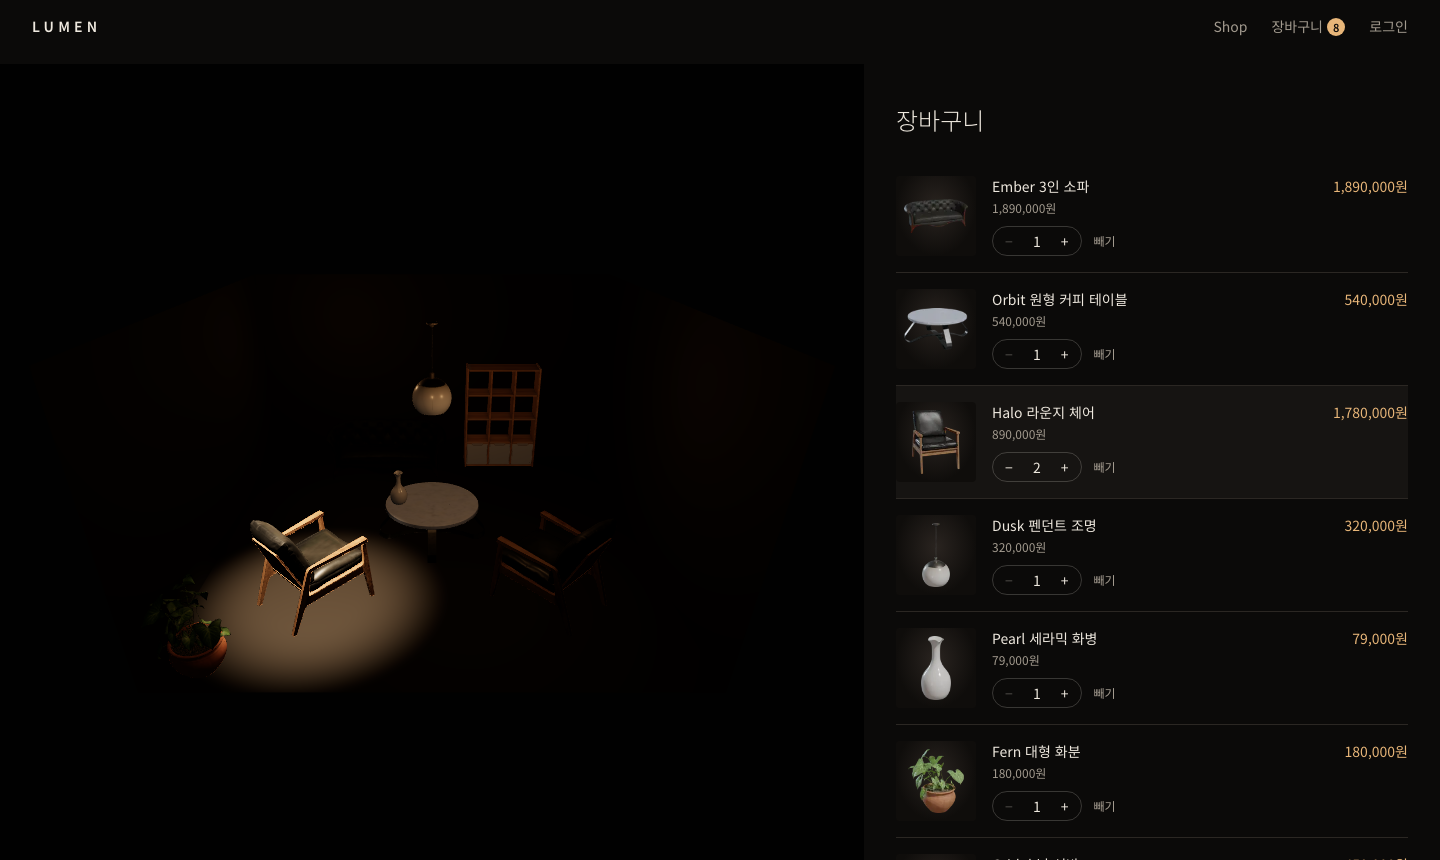
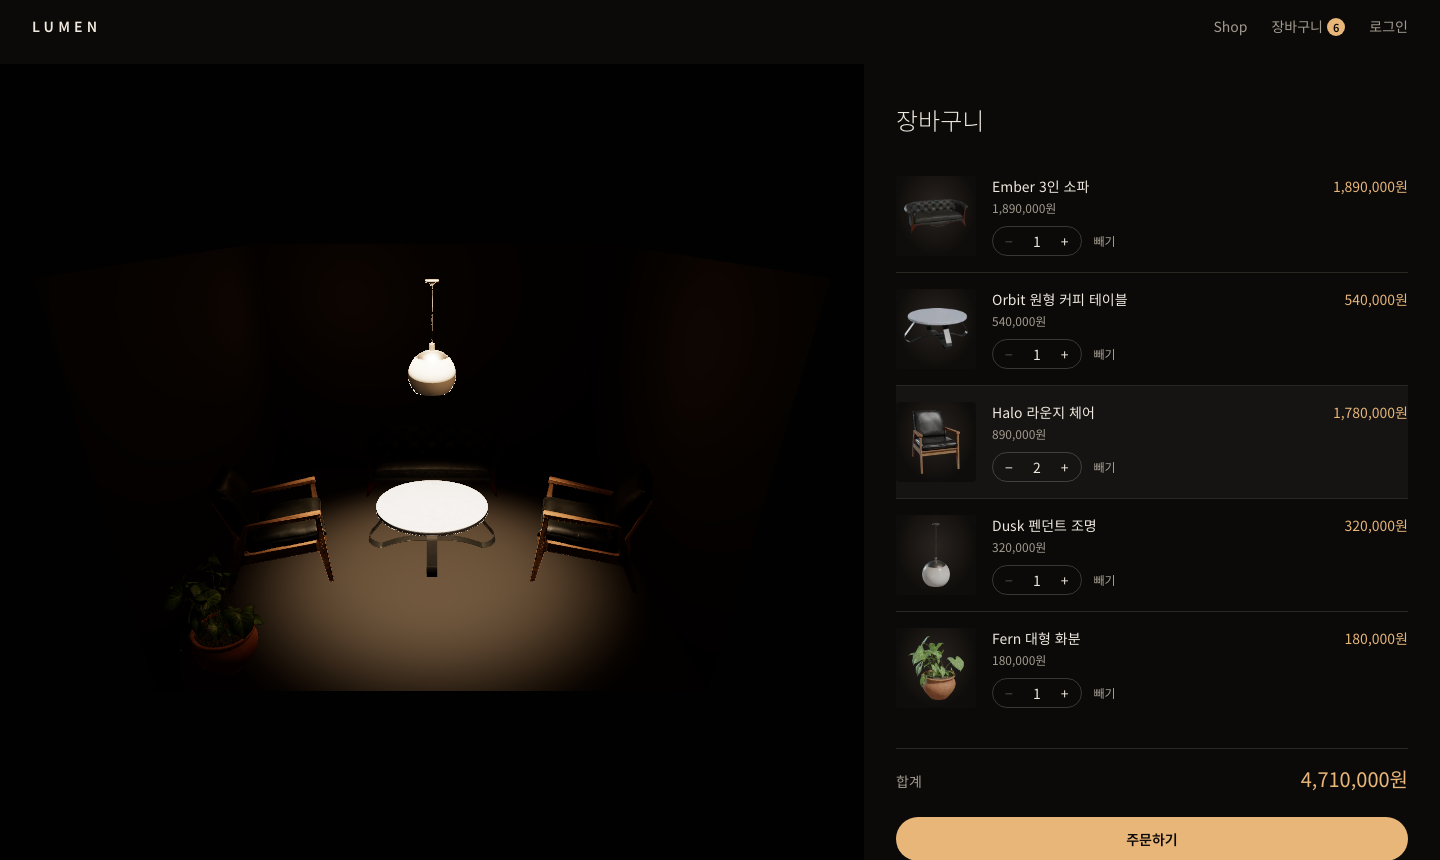
docs: 미뤄 둔 문제를 고친 뒤 README · 성능 기록 갱신
- 성능 기록: 상품 상세 LCP 5.1초를 "개선 후보" 라고 적어 둔 것을
  바로잡았다. 실제 그려지는 시점과 Lighthouse 버전별 측정을 나란히
  적고, 5.1초가 시뮬레이터 추정이었던 이유와 실제로 고친 것(three.js
  청크 요청 시점)을 남긴다.
- README: 실제로 잡은 문제에 "담기 한 번에 두 개" 와 "LCP 5.1초는
  추정치였다" 를 더하고, 고친 항목을 '아직 남은 것' 에서 뺐다. 남은
  한계(로그인 직후 합치기 응답이 끊기면 한 번 더 합쳐질 수 있음)는
  솔직하게 적어 둔다. 테스트 수 갱신(단위 82 · 통합 24 · e2e 52).
- 스크린샷: 의자 둘 모두에 조명이 떨어지는 장바구니, 의자가 테이블
  옆으로 간 결제 완료 장면으로 바꿨다.

Changed region(s): [[0.125, 0.393, 0.4375, 0.8163], [0.625, 0.8465, 1.0, 1.0], [0.625, 0.7256, 0.7812, 0.8163]]

diff --git a/README.md b/README.md
@@ -93,6 +93,8 @@
 
 - **장바구니가 가끔 비었습니다.** 로그인 직후 서버 장바구니를 불러오는 요청이, 그 사이에 담은 요청보다 늦게 도착하면 담은 것을 덮어썼습니다. 여러 요청이 오가더라도 가장 마지막에 보낸 요청의 결과만 화면에 반영하게 했습니다.
 - **수량을 바꾸면 목록 순서가 바뀌었습니다.** 목록을 '수정된 시각' 순으로 정렬했기 때문이었습니다. 담은 시각을 따로 저장하고 그 순서로 보여 줍니다.
+- **담기를 한 번 눌렀는데 소파가 두 개 들어갔습니다.** 전체 테스트를 돌릴 때 결제 테스트가 가끔 합계가 틀려 실패해서 따라가 봤습니다. 로그인된 채로 페이지를 열면 세션을 확인하는 0.1~0.3초 동안 앱이 로그인 전으로 판단하고, 그때 누른 담기는 브라우저 장바구니에 들어갑니다. 곧바로 서버 장바구니와 합치는데, 그 응답이 오기 전에 페이지를 옮기면 다음 페이지에서 한 번 더 합쳐졌습니다. 세션 응답을 일부러 늦추는 테스트로 재현한 뒤, 로그인 여부가 정해지기 전에는 담기 버튼을 잠갔습니다.
+- **Lighthouse가 상품 페이지 LCP를 5.1초라고 했지만, 실제로는 0.5초에 그려지고 있었습니다.** CPU를 4배 느리게 하고 직접 재 보니 가장 큰 글자는 536ms에 그려졌고, Lighthouse가 관찰한 값도 매번 첫 페인트와 같았습니다. 5.1초는 시뮬레이터가 "첫 페인트 전에 요청된 JS"를 느린 4G로 다시 계산한 추정치였습니다. 숫자를 그대로 믿고 포스터 이미지부터 붙였다면 엉뚱한 곳을 고쳤을 겁니다. 다만 그 과정에서 진짜 문제를 하나 찾았습니다. 3D 초기화는 load 뒤로 미뤘는데, 407KB짜리 three.js 파일을 받는 것은 그보다 먼저 시작하고 있었습니다. 받는 시점도 load 뒤로 옮겼습니다.
 - **테스트는 다 통과했는데 운영에서 첫 결제가 실패했습니다.** 토스 승인 API가 `403 API_KEY_ACCESS_DENIED`를 돌려줬습니다. 로그를 보니 토스 상점에 '대한민국 IP만 허용'하는 API 키 접근 정책이 걸려 있었습니다. 그런데 LUMEN의 서버 함수는 DB가 있는 싱가포르에서 돌아갑니다. 로컬과 e2e 테스트는 결제 시뮬레이션으로 돌기 때문에 운영에 올리기 전까지는 알 수 없었던 문제였습니다. 카카오 로그인도 운영에서 처음 눌렀을 때 리다이렉트 주소가 등록되어 있지 않아 막혔습니다. 외부 서비스와 맞닿는 부분은 운영에서 직접 끝까지 눌러 보기 전까지 끝난 게 아니라는 걸 배웠습니다.
 
 ## AI와 어떻게 나눠 일했나
@@ -116,15 +118,14 @@ npm run dev
 - `?tier=0|1|2`로 품질을 고정하고, `?adaptive=off`로 자동 조절을 끕니다.
 - `?renderer=webgl2|none`으로 렌더러를 강제로 바꿀 수 있습니다.
 - 로그인과 장바구니, 결제는 DB(Postgres)가 필요합니다. `.env.local`에 `DATABASE_URL`, `AUTH_SECRET`, 그리고 `PAYMENT_SIMULATION=true`를 넣으면 토스 결제창 없이 결제 흐름을 끝까지 돌려 볼 수 있습니다. 시뮬레이션은 운영 환경에서는 켜지지 않습니다.
-- 검사는 `npm run check`(lint · 타입 · 단위 테스트 73개), `npm run test:db`(DB 통합 테스트 22개), `npm run test:e2e`(Playwright 45개)입니다.
+- 검사는 `npm run check`(lint · 타입 · 단위 테스트 82개), `npm run test:db`(DB 통합 테스트 24개), `npm run test:e2e`(Playwright 52개)입니다.
 
 **스택** Next.js 16 · React 19 · TypeScript · three.js 0.187(WebGPURenderer, TSL) · React Three Fiber 9 · drei · zustand · Tailwind CSS 4 · Auth.js 5 · Prisma 7 · Neon Postgres · 토스페이먼츠 · Vitest · Playwright · Vercel
 
 ## 아직 남은 것
 
 - **3차:** 가구 소재와 색 바꾸기 · 내 방 크기를 넣고 가구를 직접 옮겨 보기
-- **성능:** 상품 상세 페이지의 첫 화면(LCP)이 모바일 측정에서 5.1초 걸립니다. 3D 영역 대신 정적 이미지를 먼저 보여 주는 쪽으로 줄여 볼 생각입니다. 측정 결과는 [`docs/perf/phase2.md`](docs/perf/phase2.md)에 있습니다.
-- **작은 것들:** 결제 완료 장면을 정면에서 보면 의자 등받이가 테이블을 가립니다. 같은 가구를 여러 개 담으면 목록과 연결된 조명이 첫 번째 가구에만 떨어집니다. 데모 계정 생성에는 아직 횟수 제한이 없습니다.
+- **장바구니 합치기:** 로그인 전에 담아 둔 가구를 서버와 합치는 요청의 응답이 끊기면, 다음에 한 번 더 합쳐질 수 있습니다. 로그인 직후 그 한순간에만 생기는 일이라 지금은 두었습니다. 완전히 막으려면 합치기 요청마다 번호를 붙여 서버가 두 번 받지 않게 해야 합니다.
 - **측정:** 맥북과 삼성 휴대폰에서 매끄럽게 도는 건 확인했지만, 저사양 노트북에서 몇 fps가 나오는지는 아직 재지 못했습니다.
 
 3D 모델 · 텍스처 · 조명 배경은 [Poly Haven](https://polyhaven.com)(CC0)에서 가져왔습니다. 상품 이름과 가격, 설명은 지어낸 것입니다.

diff --git a/docs/perf/phase2.md b/docs/perf/phase2.md
@@ -14,7 +14,21 @@
 ## 읽는 법
 - 쇼룸 · 상품 상세는 2차 뒤에도 **정적으로 만들어진다**(빌드 출력 `○`, e2e `auth.spec` 의 prerender-manifest 검사). 로그인 상태 · 장바구니 수는 클라이언트가 읽는다
 - 쇼룸 TBT 3.1초는 3D 초기화가 유휴 시간에 시작하면서 Lighthouse 측정 창 안에 들어온 것이다. 첫 글자(LCP 1.7s)는 막지 않는다
-- 상품 상세 LCP 5.1s 는 다음 개선 후보: 상세의 3D 영역이 LCP 후보가 되지 않게 하거나, 첫 화면에 정적 포스터를 먼저 둔다
+- ~~상품 상세 LCP 5.1s 는 다음 개선 후보~~ → 2026-11-04 다시 쟀다. 아래 "상품 상세 LCP 다시 보기"
+
+## 상품 상세 LCP 다시 보기 (2026-11-04)
+5.1초는 실제로 그려지는 시점이 아니라 Lighthouse 12 시뮬레이터의 추정이었다.
+
+| 측정 | LCP | 비고 |
+|---|---|---|
+| Lighthouse 12.8 운영 ×2 | 5.1s · 2.6s | 관찰된 LCP 는 1,344ms · 310ms — 둘 다 FCP 와 같다 |
+| Lighthouse 13.6 운영 ×3 | 0.9s · 0.9s · 0.9s | |
+| Playwright · CPU 4배 감속 · 412×823 운영 | 536ms | PerformanceObserver. 후보는 상품 설명 `<p>` 하나 |
+
+- LCP 요소는 상품 설명 문단이고 서버 HTML 에 들어 있다. 지연은 전부 Render Delay 로 잡혔다
+- 시뮬레이터는 "관찰된 첫 페인트 이전에 요청된 JS" 를 느린 4G · CPU 4배로 다시 계산한다. 첫 페인트가 늦게 잡힌 실행(1,344ms)에서는 three.js 청크(407KB)까지 들어가 5.1초, 빨리 잡힌 실행에서는 2.6초가 됐다
+- 실제로 고칠 것은 하나였다: three.js 청크가 load 보다 150~240ms 먼저 요청되고 있었다(3D 초기화만 load 뒤였고 모듈 다운로드는 하이드레이션 직후). 모듈 요청도 load + 유휴 시간 뒤로 옮겼다(`src/three/idle.ts`, e2e `product.spec` 로 고정)
+- 같은 로컬 조건 Lighthouse 12 ×3: TBT 460~800ms → 360~430ms, 점수 0.68~0.75 → 0.76~0.78. 시뮬레이션 LCP 는 3.5s 그대로(로컬은 원래 첫 페인트가 three.js 요청보다 앞섰다)
 
 ## 운영에서 손으로 확인한 것
 - 데모 계정 로그인 → 상세 2곳에서 담기(배지 2) → 장바구니 방(합계 2,430,000원) → 주문서 → **토스 테스트 결제창이 열림**(상품명 `Ember 3인 소파 외 1건`, 금액 2,430,000원 — 서버 계산값과 일치)
